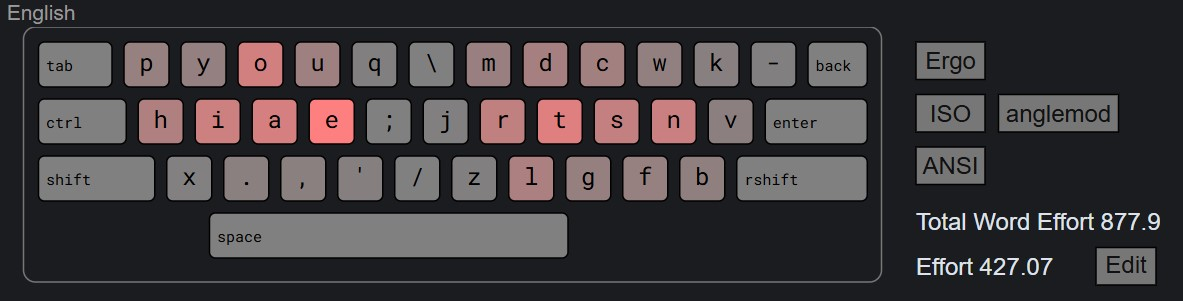
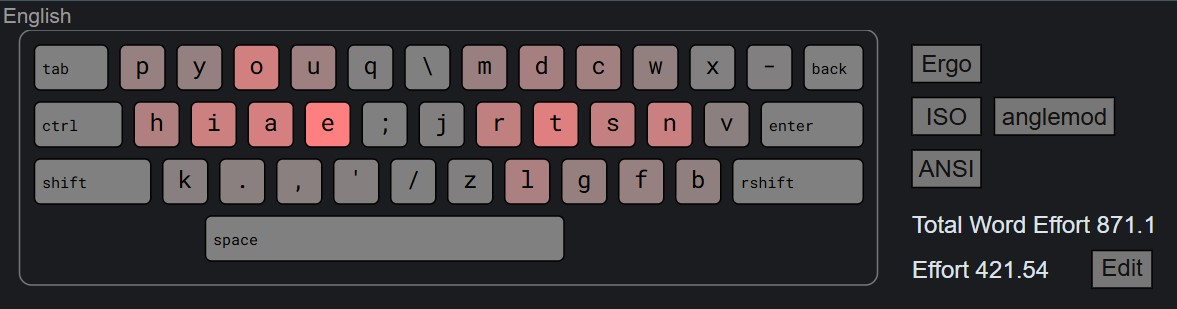
swapped x and k key to reduce right pinky sfbs, updated all data

diff --git a/README.md b/README.md
@@ -116,7 +116,7 @@ For Same Finger Bigrams this meant paying attention to which fingers were used m
 `Same Finger Bigrams frequency for each finger`
 L Pinky 1 | L Ring 2 | L Middle 3 | L Index  4 | R Index 7 | R Middle 8 | R Ring 9 | R Pinky 10
 --- | --- | ---
-0.10% | 0.09% | 0.08% | 0.28% | 0.18% | 0.04% | 0.12% | 0.22%
+0.06% | 0.09% | 0.08% | 0.28% | 0.18% | 0.04% | 0.12% | 0.14%
 
 From this you can see that the worst fingers for same finger bigram frequency are the Left Index finger, then Right pinky, then the Right Index finger. This is expected since all three of these fingers have access to two columns and thus they each press up to six keys with the same finger.
 
